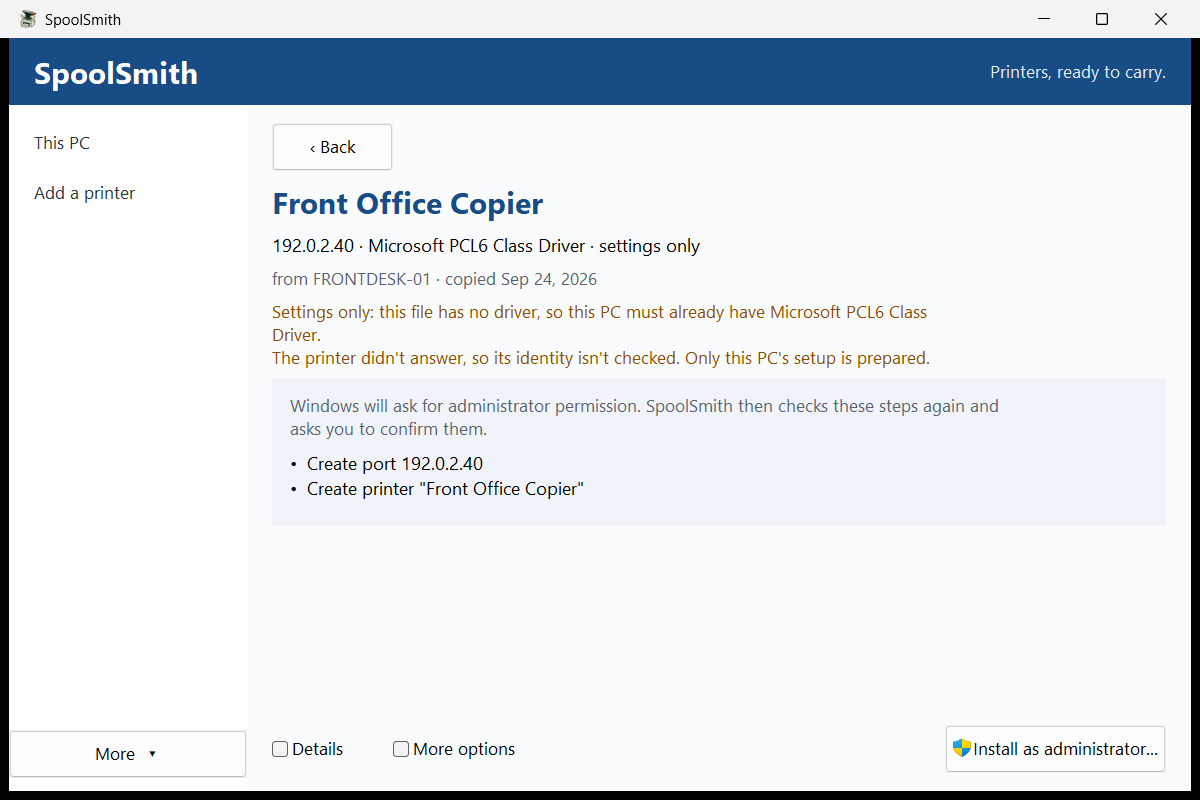
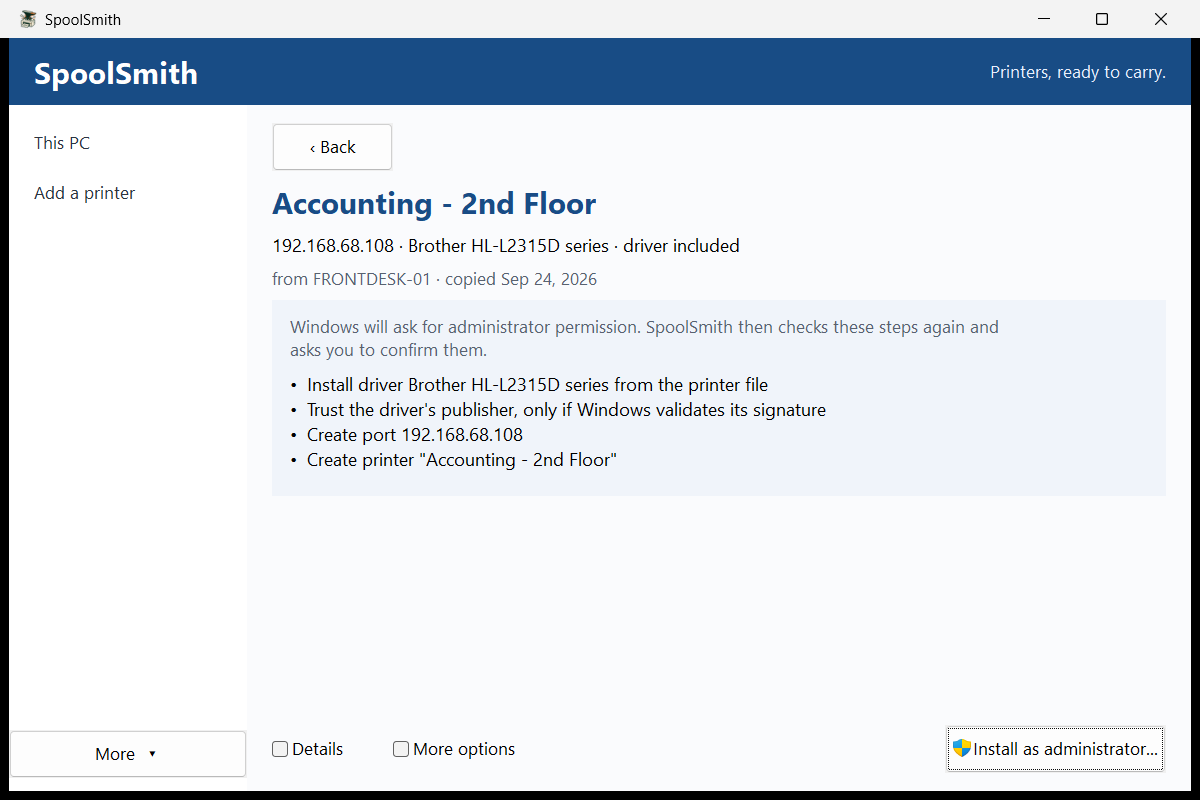
Give the demo saved setups the identity a saved printer needs; use the driver-carrying sheet capture

Changed region(s): [[0.2158, 0.375, 0.8325, 0.625], [0.2158, 0.2188, 0.6167, 0.3125]]

diff --git a/docs/index.html b/docs/index.html
@@ -62,8 +62,8 @@
     <section id="app" class="app-section" aria-labelledby="app-title"><div class="wrap">
       <div class="section-heading"><div><p class="eyebrow"><span class="status-dot"></span>The desktop app</p><h2 id="app-title">Your printers.<br>Ready to <em>carry.</em></h2></div><p>Two places to go: This PC, to take printers off this computer, and Add a printer, to put them on. Every change opens one review sheet, and nothing happens until you confirm it.</p></div>
       <figure class="shot">
-        <img src="img/gui-review-and-apply.png" alt="SpoolSmith's apply sheet for a printer file named Front Office Copier: its address and driver, that it was copied from FRONTDESK-01, two notes to know first, and the steps it will take — create port 192.0.2.40 and create the printer. The main button reads Install as administrator with the Windows shield." width="960" height="640" loading="lazy" decoding="async">
-        <figcaption><span class="status-dot"></span>Double-click a printer file and this is what opens: where it came from, what to know, and exactly what will change. One confirmation.</figcaption>
+        <img src="img/gui-review-and-apply.png" alt="SpoolSmith's apply sheet for a printer file named Accounting - 2nd Floor, copied from FRONTDESK-01 with its driver included. The steps: install the driver from the printer file, trust the driver's publisher only if Windows validates its signature, create the port and create the printer. The main button reads Install as administrator with the Windows shield." width="960" height="640" loading="lazy" decoding="async">
+        <figcaption><span class="status-dot"></span>Double-click a printer file and this is what opens: where it came from, its driver, and exactly what will change. One confirmation.</figcaption>
       </figure>
       <div class="shot-grid">
         <figure class="shot">

diff --git a/test/gui/SpoolSmithGui.Tests/SiteScreenshots.cs b/test/gui/SpoolSmithGui.Tests/SiteScreenshots.cs
@@ -78,7 +78,7 @@ public sealed class SiteScreenshots
             var path = Path.Combine(DemoSetups, file);
             if (File.Exists(path)) File.Delete(path);
             FunctionalTests.WriteProfileBundle(path, "{\"version\": 1, \"target\": \"" + ip + "\", \"printer_name\": \"" + name +
-                "\", \"driver_name\": \"Microsoft PCL6 Class Driver\", \"evidence\": {\"ip\": \"" + ip + "\", \"provenance\": \"captured\"}}");
+                "\", \"driver_name\": \"Microsoft PCL6 Class Driver\", \"evidence\": {\"ip\": \"" + ip + "\", \"http_title\": \"" + name + " (illustrative)\", \"provenance\": \"captured\"}}");
         }
     }
 

diff --git a/docs/validation/2026-09-24-v1.3.0.md b/docs/validation/2026-09-24-v1.3.0.md
@@ -60,8 +60,13 @@ On the operator's workstation, not elevated unless noted, with the preview build
 
 ## Screenshots
 
+On the runner, `scripts/demo-printers.ps1` first sets up eight network printer
+queues with business names and an inbox Microsoft class driver, and the capture
+seeds a matching saved-setups library. The script refuses to run anywhere but a
+GitHub-hosted runner; the desktop tests themselves never change printers.
+
 `docs/img` screenshots come from the Desktop validation run on the final commit,
-except the apply sheet, which is an unelevated capture of a neutral demo file
-(`Front Office Copier`, Microsoft PCL6 Class Driver, 192.0.2.40) so it shows the
-plan and the shield button rather than the runner's elevated error for a driver
-it doesn't have. The Intune wizard images are unchanged from v1.1.0.
+except the apply sheet. That one is an unelevated capture on the operator's
+workstation of a real printer file with its driver embedded (a copy renamed
+`Accounting - 2nd Floor`), so it shows the full plan and the shield button. The
+file itself is not in the repository: it carries the vendor's driver files. The Intune wizard images are unchanged from v1.1.0.
